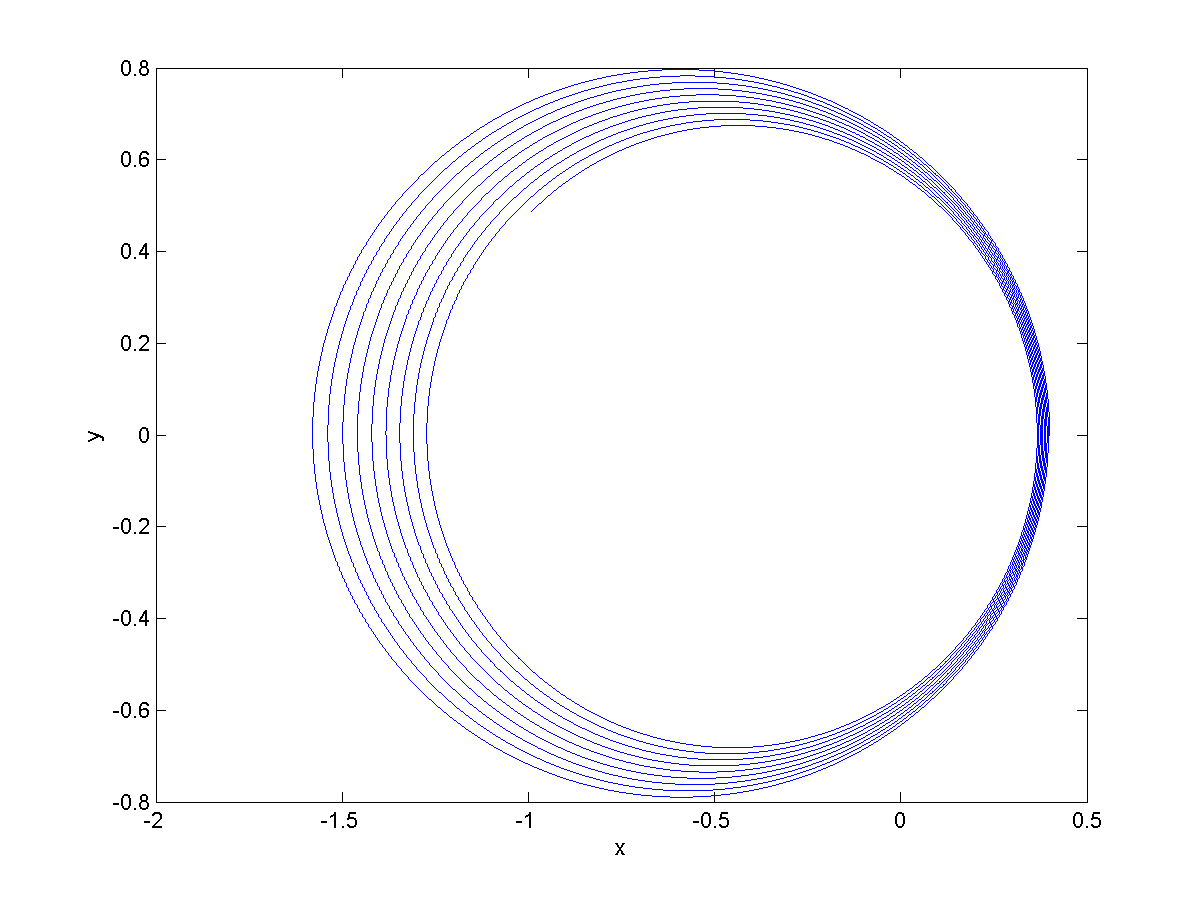
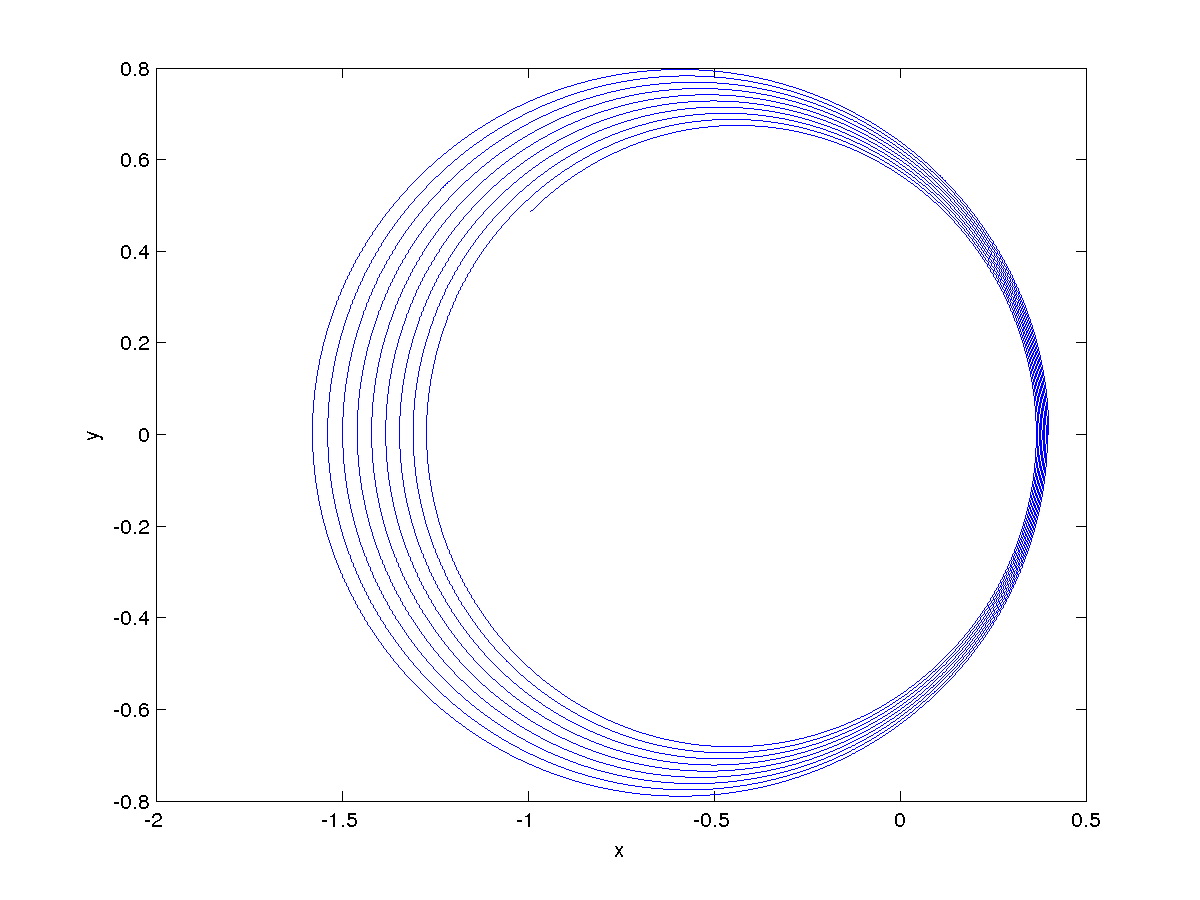
Fix J_2_q1

diff --git a/devoir4/matlab/Q.m b/devoir4/matlab/Q.m
@@ -82,7 +82,7 @@ if num == 1
     for i = 1:n+1
         lambda(:,i) = eigen_values(q(:,i), p(:,i));
     end
-    plot(t, h*lambda, 'linewidth', 0.5);
+    plot(t, real(h*lambda), 'linewidth', 0.5);
     legend('\lambda_1', '\lambda_2', '\lambda_3', '\lambda_4');
     saveas(gcf, sprintf('../images/Q%d_%s_lambda', num, method), 'png');
 end

diff --git a/devoir4/matlab/J_2_q1.m b/devoir4/matlab/J_2_q1.m
@@ -1,3 +1,3 @@
 function [dfdq] = J_2_q1 (q)
-dfdq = [2*q(1)^2-q(2)^2, -3*q(1)*q(2); -3*q(1)*q(2), -q(1)^2+2*q(2)^2] / norm(q)^5;
+dfdq = [2*q(1)^2-q(2)^2, 3*q(1)*q(2); 3*q(1)*q(2), -q(1)^2+2*q(2)^2] / norm(q)^5;
 end
